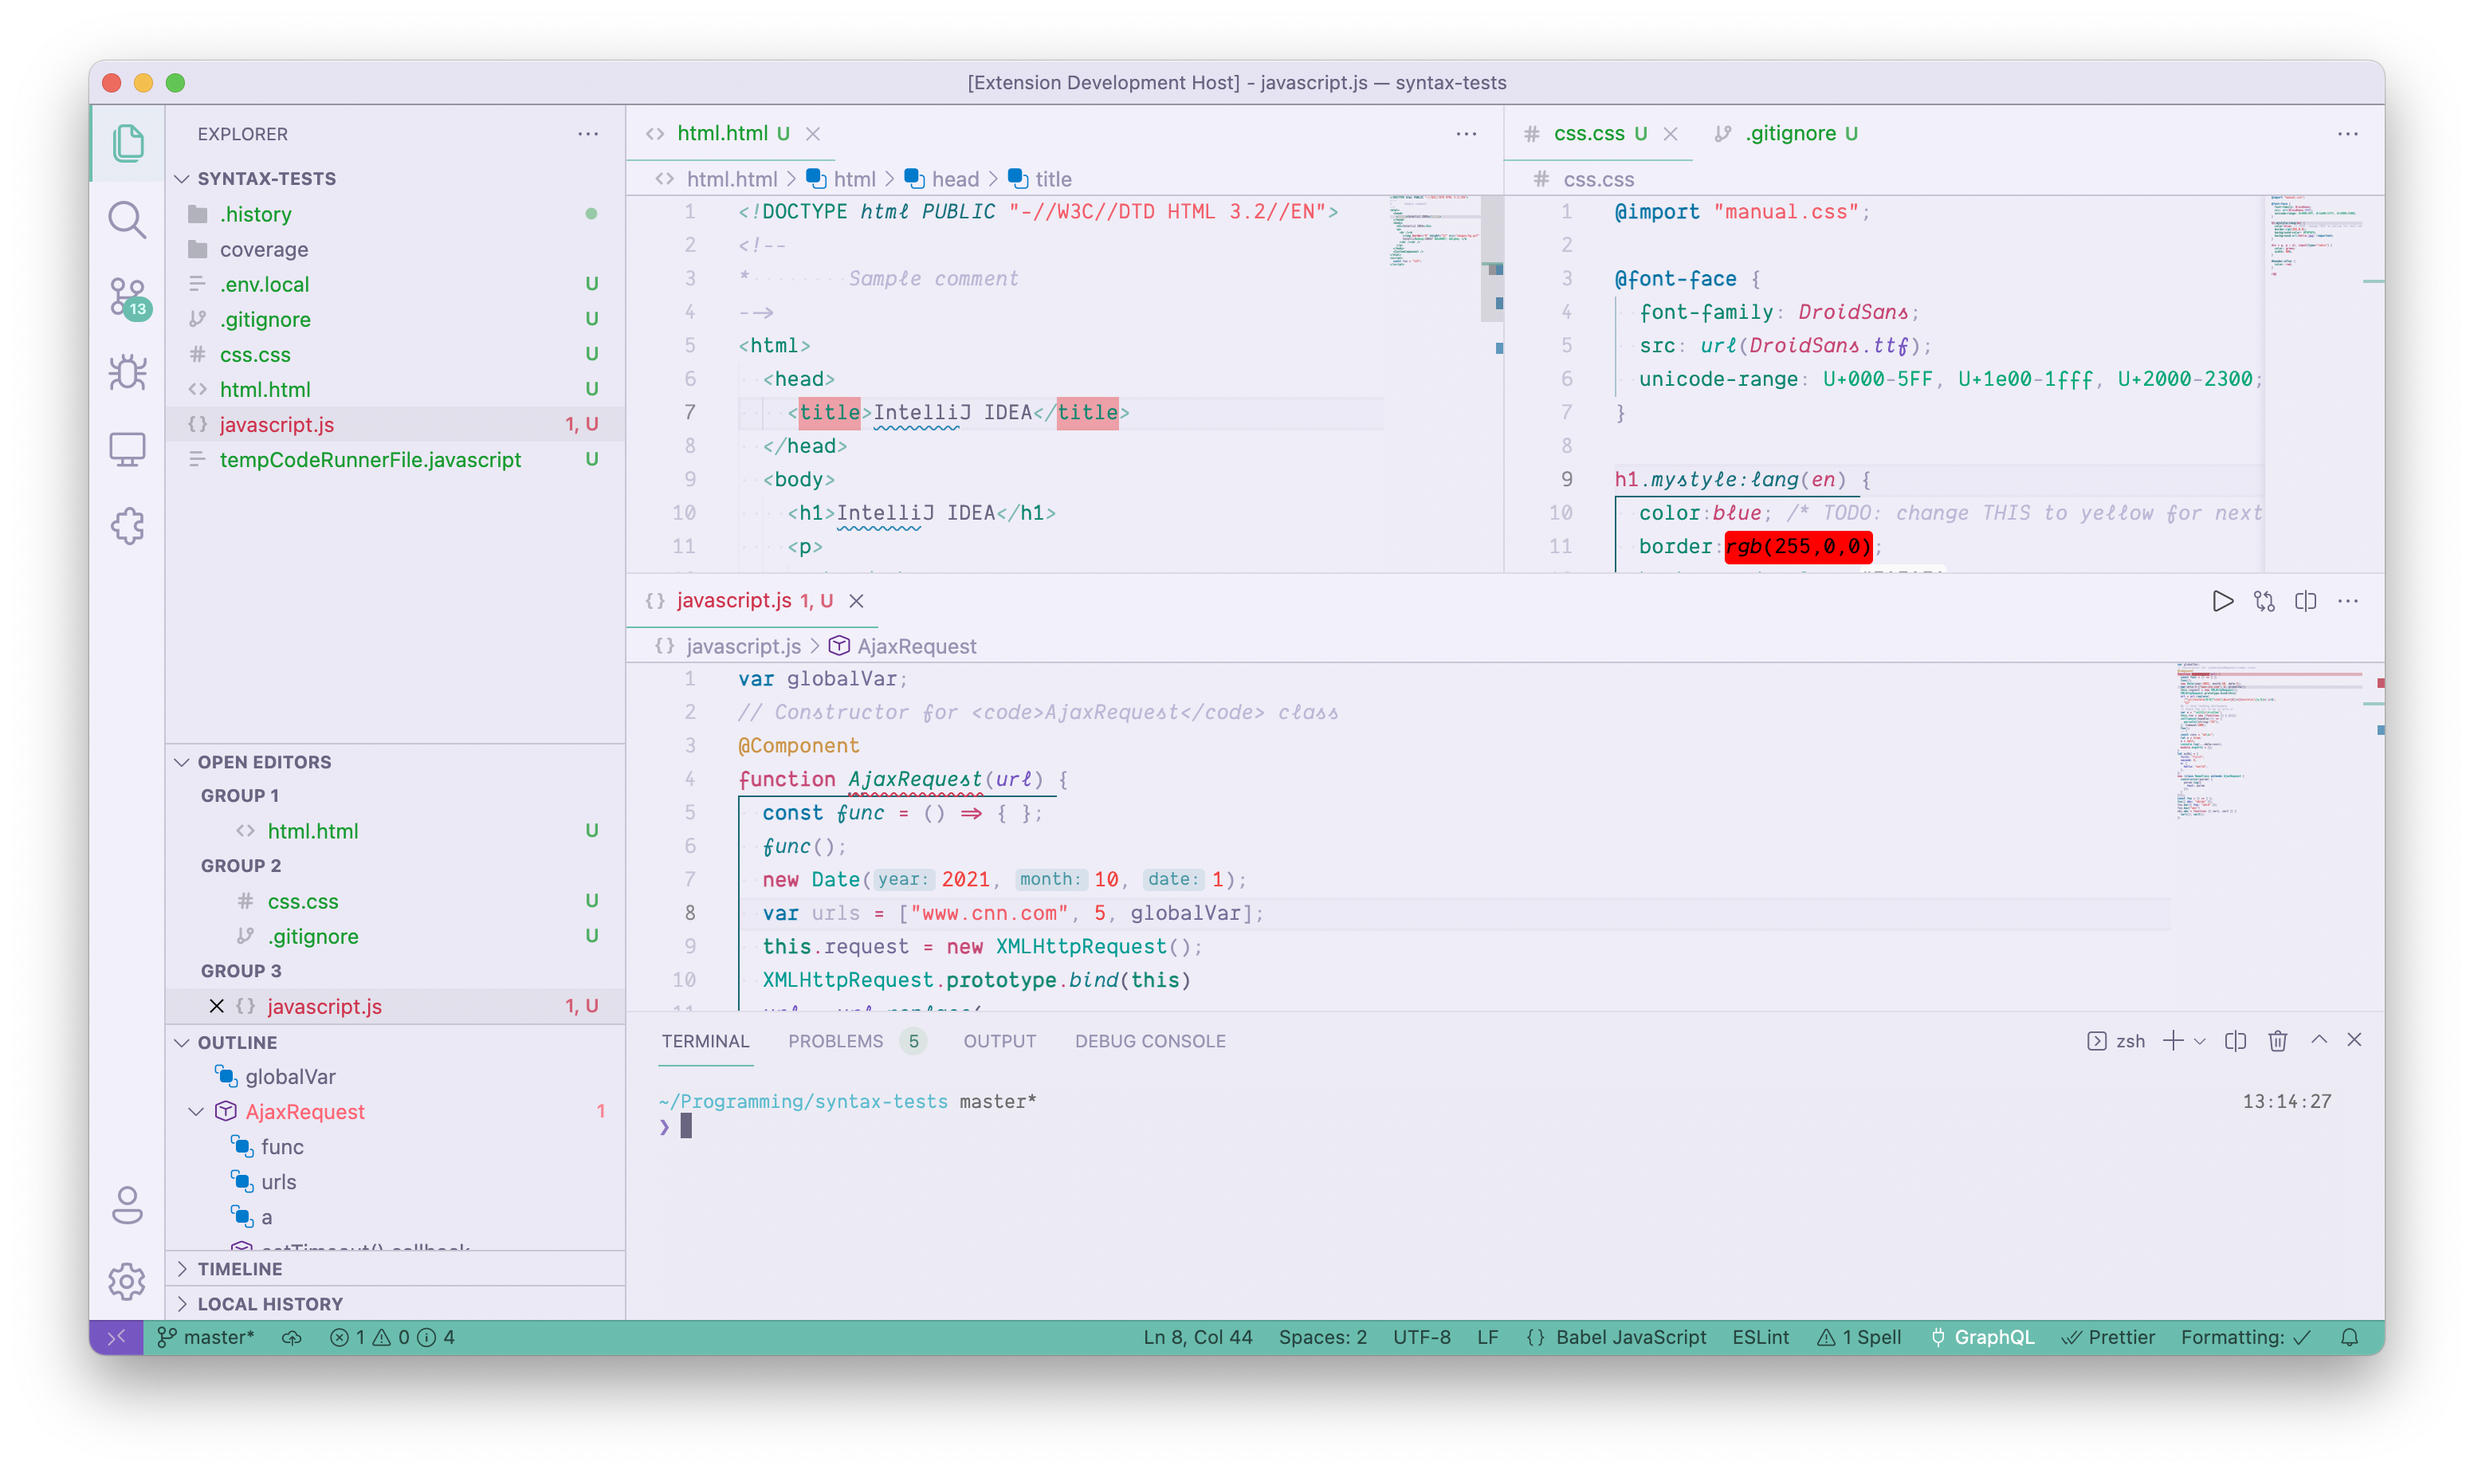
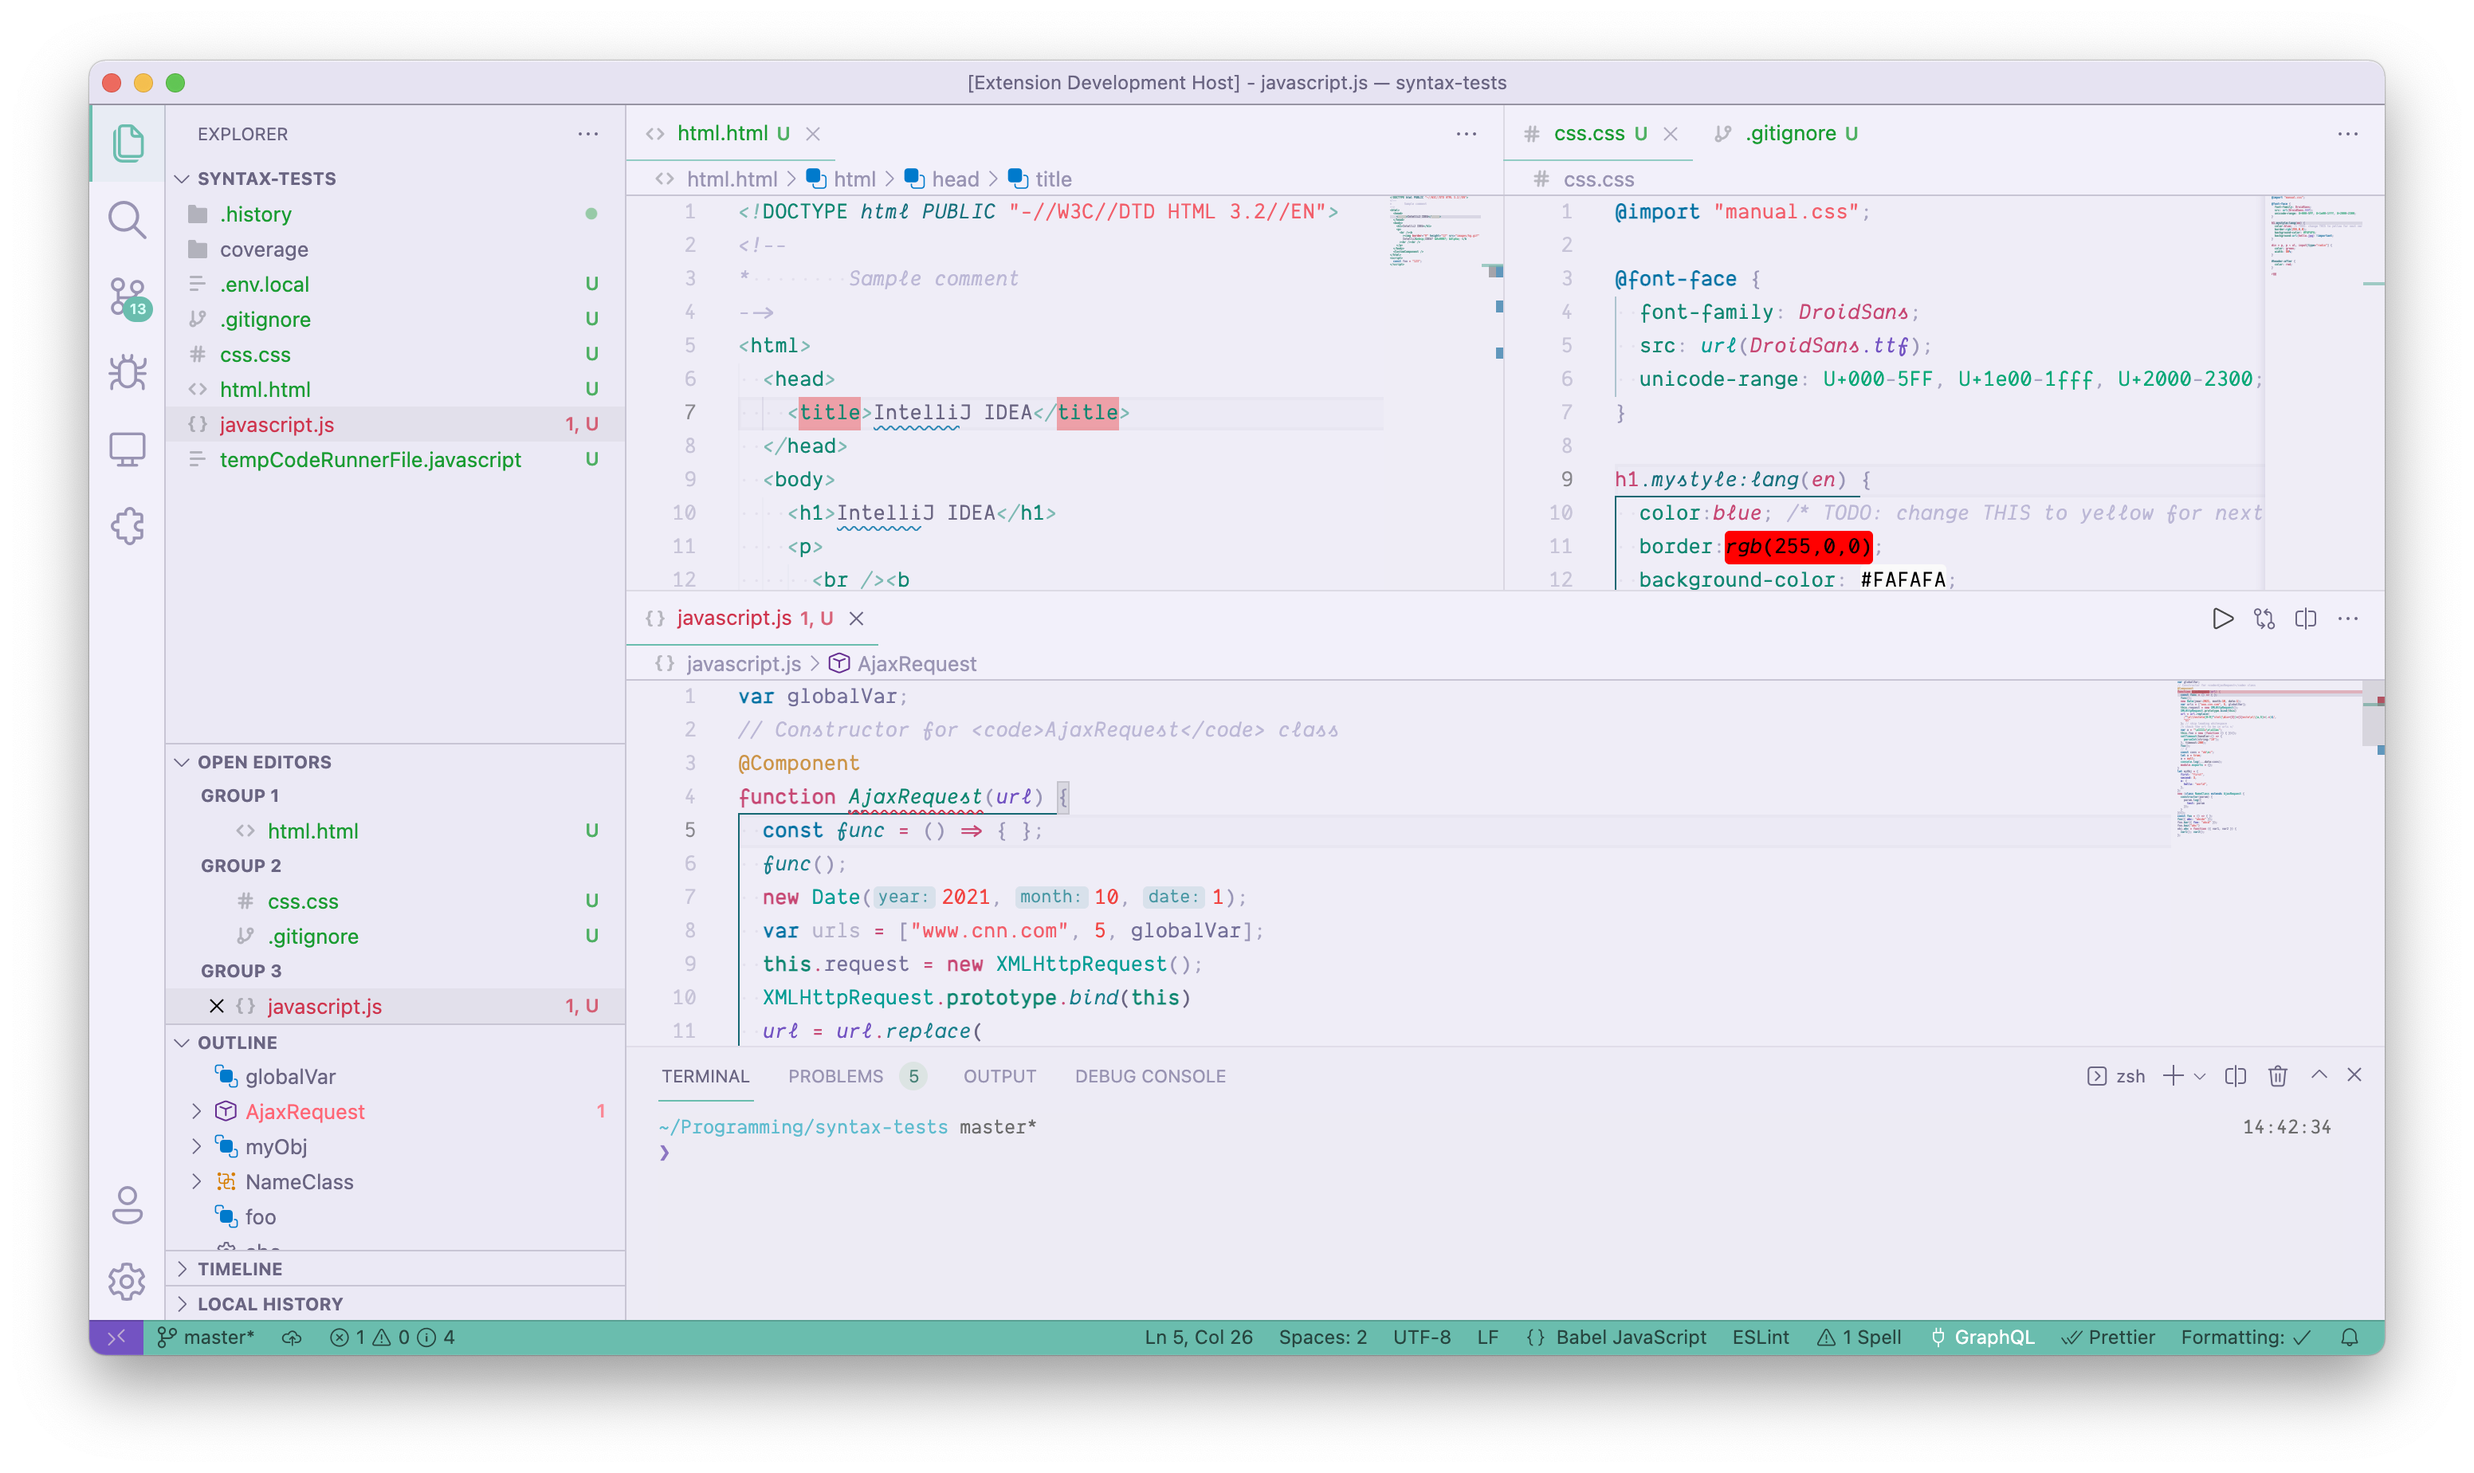
Some tweaks on syntax colors

diff --git a/CHANGELOG.md b/CHANGELOG.md
@@ -1,5 +1,8 @@
 # Change Log
 
+## 1.11.3
+Some tweaks on syntax colors
+
 ## 1.11.2
 Some tweaks purple syntax colors
 
